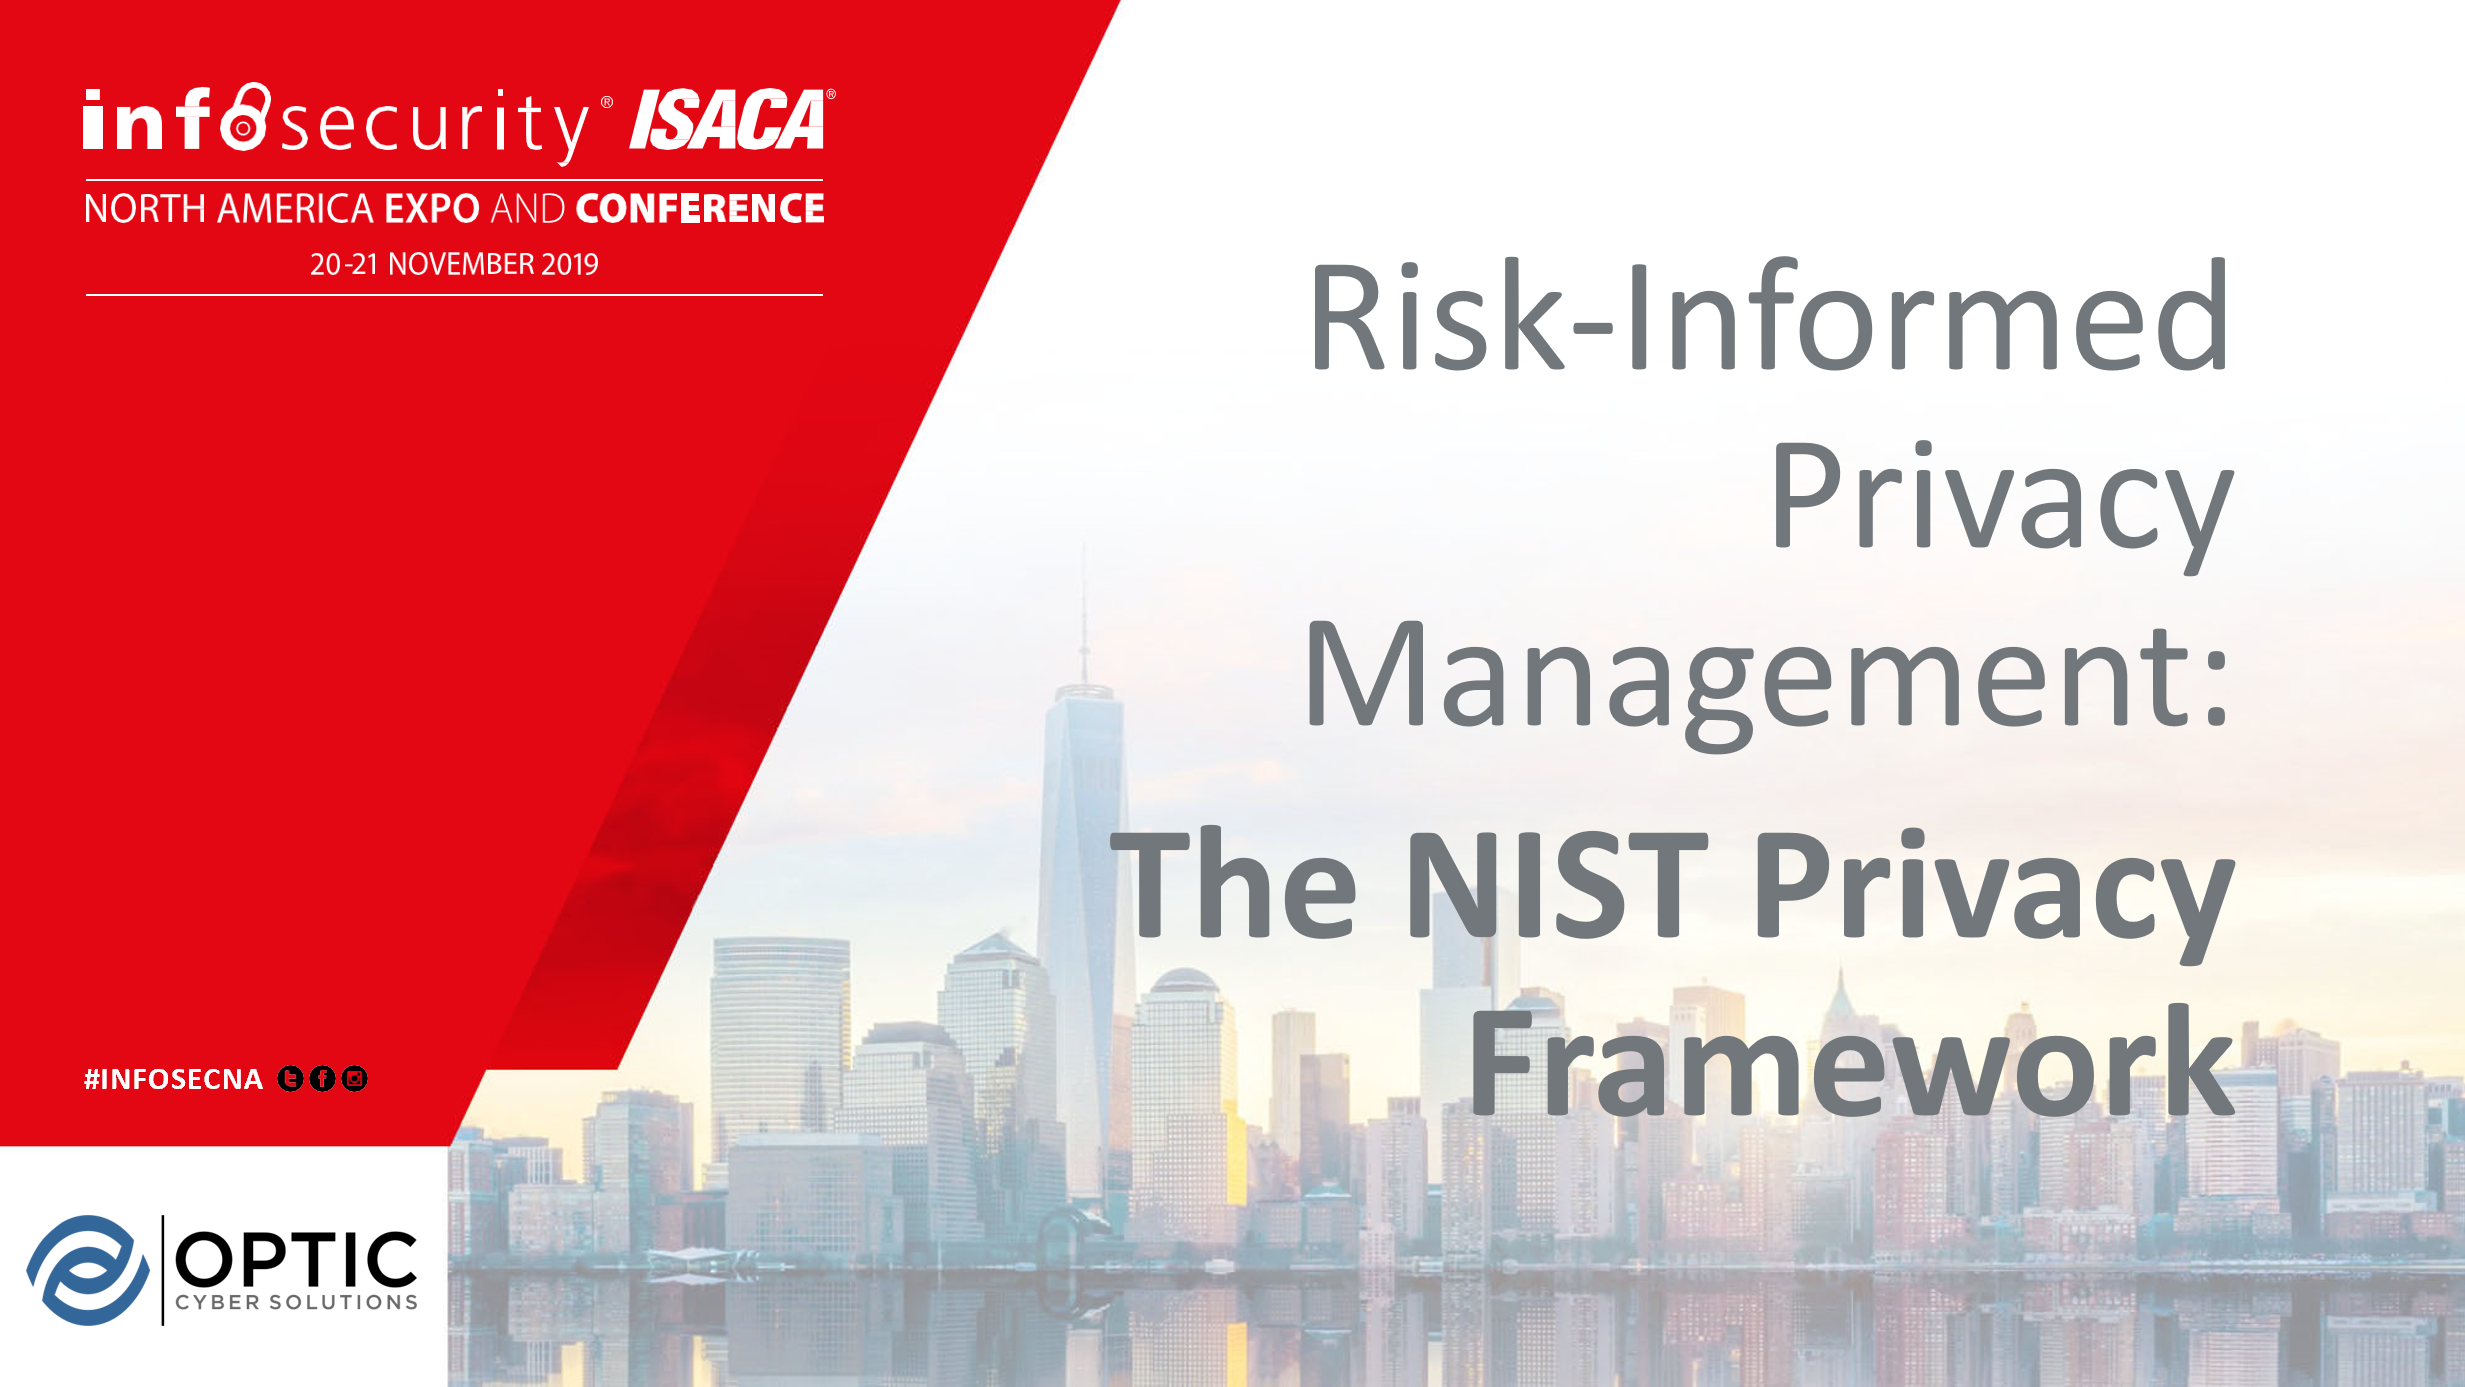
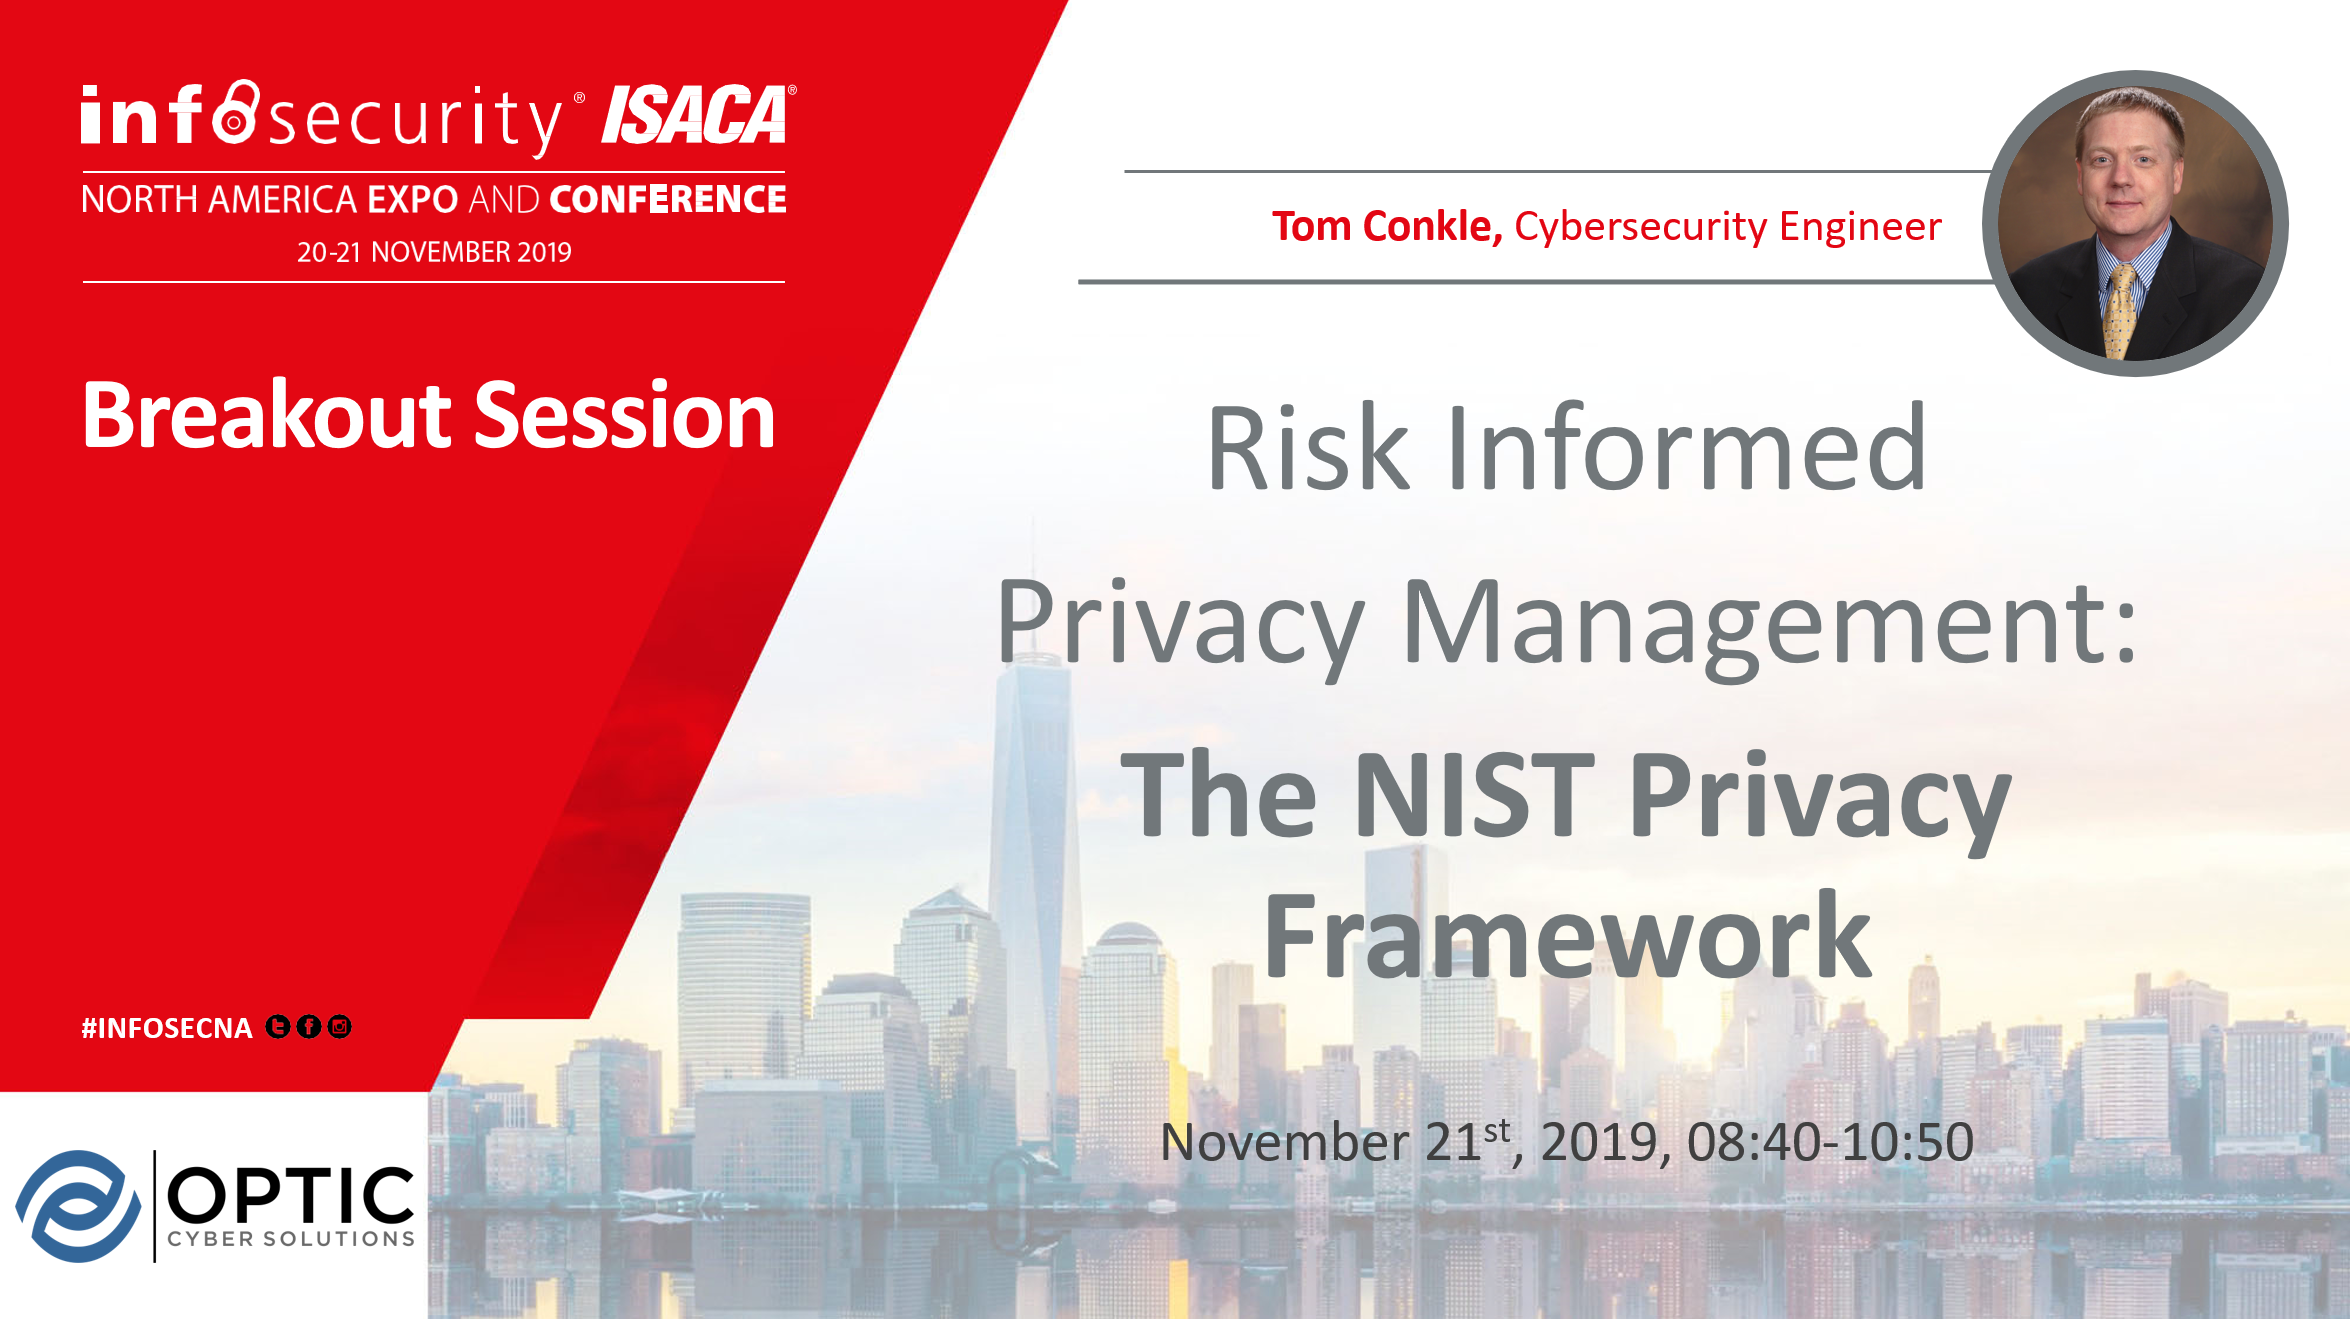
Update Privacy Framework image

diff --git a/CHANGELOG.md b/CHANGELOG.md
@@ -8,6 +8,10 @@ year and release number, such as `2019.01` to represent the first release of
 
 ## [Unreleased]
 
+## [2019.15]
+### Changed
+- Privacy Framework image on homepage
+
 ## [2019.14]
 ### Added
 - Email link in footer
@@ -102,7 +106,8 @@ year and release number, such as `2019.01` to represent the first release of
 ### Added
 - One-page brochure-style website
 
-[Unreleased]: https://github.com/opticcyber/opticcyber.github.io/compare/2019.14...HEAD
+[Unreleased]: https://github.com/opticcyber/opticcyber.github.io/compare/2019.15...HEAD
+[2019.15]: https://github.com/opticcyber/opticcyber.github.io/releases/tag/2019.15
 [2019.14]: https://github.com/opticcyber/opticcyber.github.io/releases/tag/2019.14
 [2019.13]: https://github.com/opticcyber/opticcyber.github.io/releases/tag/2019.13
 [2019.12]: https://github.com/opticcyber/opticcyber.github.io/releases/tag/2019.12
